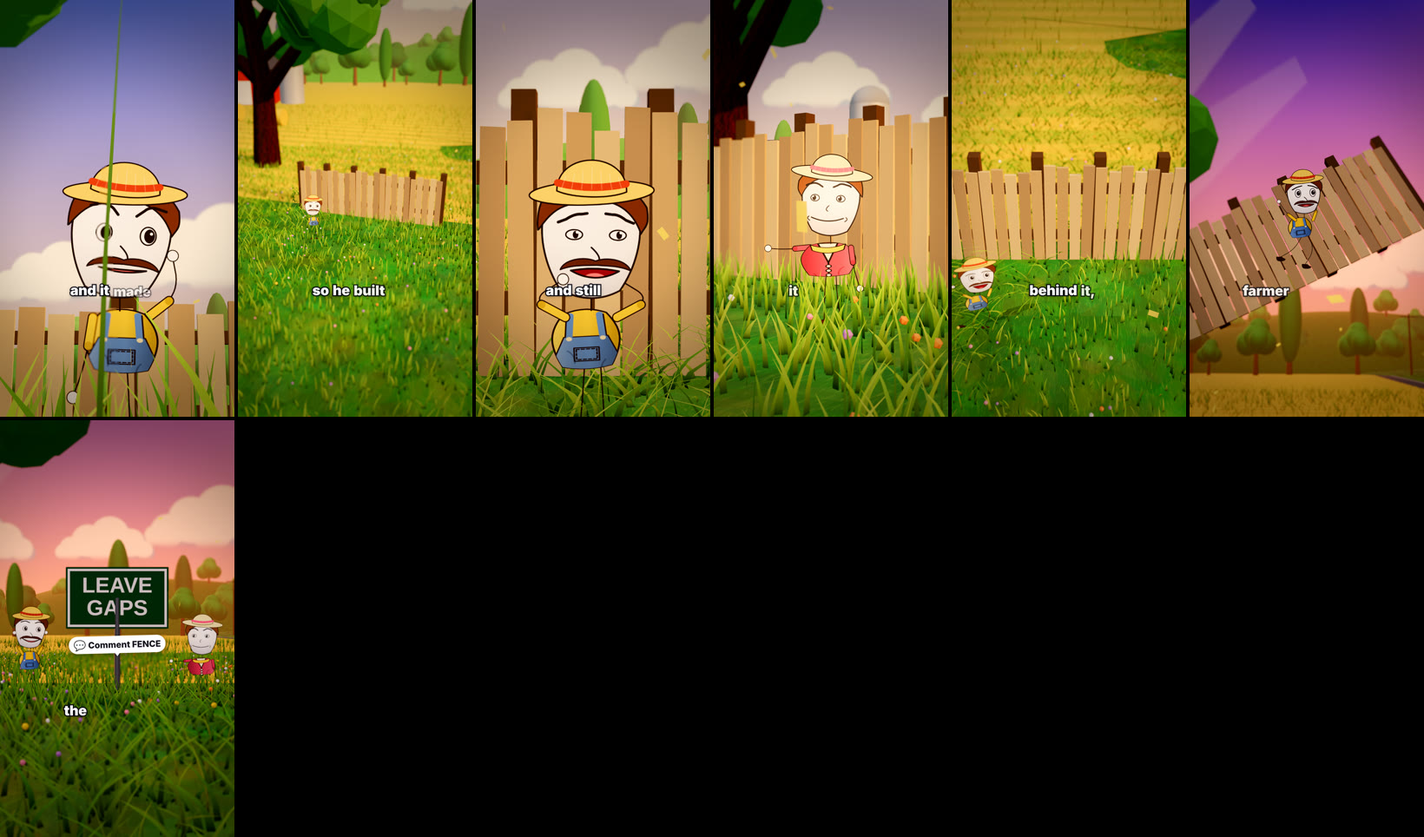
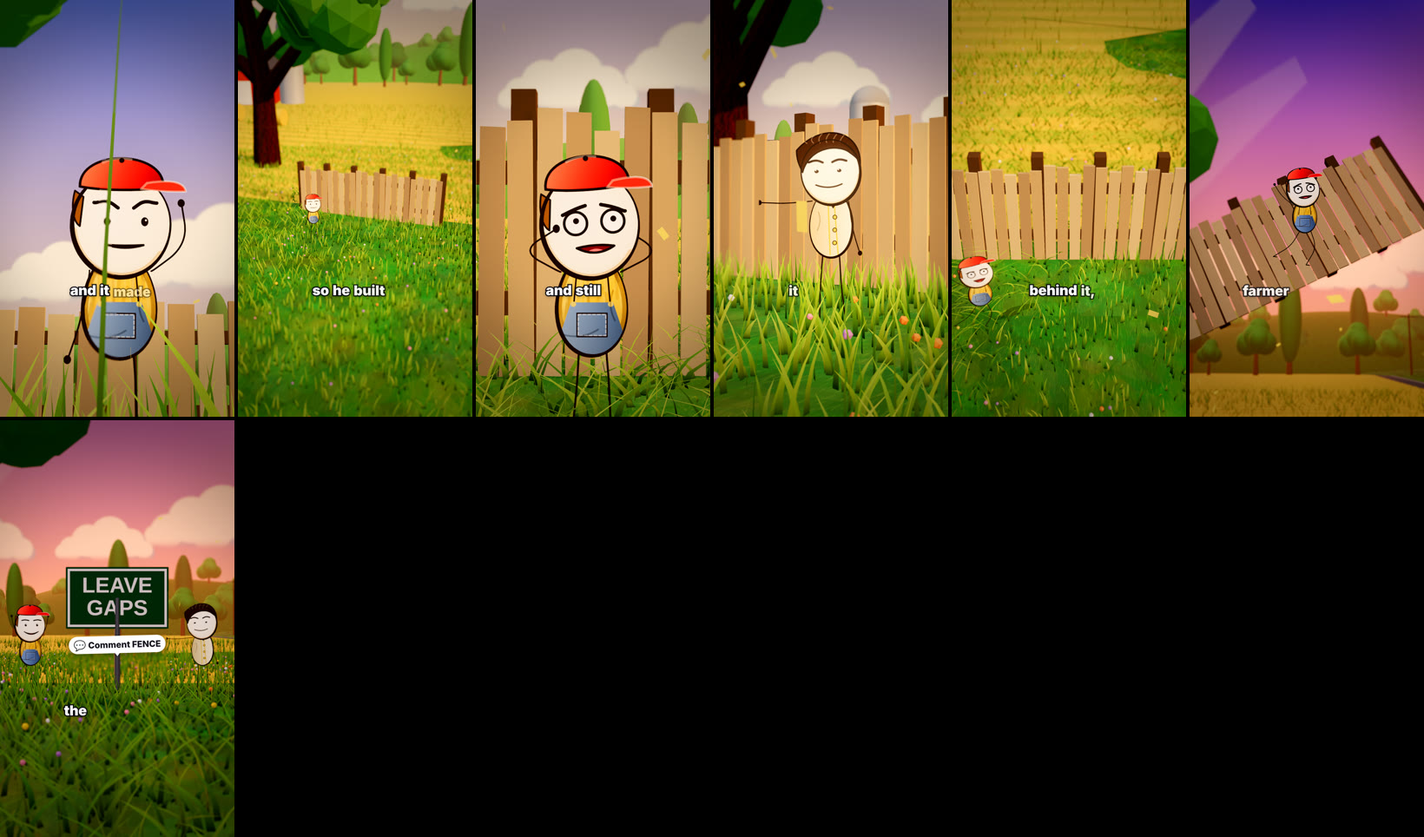
Style 2 characters rebuilt to match the reference characters: bean body without neck, round head, variable-weight ink loops, painted cloth with brush streaks and inner shading, squint/teeth faces, thin limbs, tight hats; reference cast (red-cap kid, pompadour, teal kid, site worker)

diff --git a/reel-studio/remotion-template/src/three/stickdraw.js b/reel-studio/remotion-template/src/three/stickdraw.js
@@ -2,7 +2,7 @@
 // Joint-driven: shoulders, elbows, hips, knees, torso lean, head tilt, a 3/4 turn, brows, blinking eyes, a continuous mouth, squash and stretch,
 // and the slightly boiling line of hand-drawn animation (the line re-wobbles at 12 fps). Pure function of its arguments.
 //   drawStick(ctx, W, H, s)  s = { t, pose: {...joints}, look:{...costume}, expr:{brow, tilt, smile, open, eyes, look:[x,y]}, turn, walk, seed }
-const R = Math.PI / 180, INK = '#241a15';
+const R = Math.PI / 180, INK = '#1f1511';
 export const POSES = {
   idle:   { sL: [8, 10], sR: [8, 10], hL: [4, 4], hR: [4, 4], lean: 0, tilt: 0 },
   point:  { sL: [8, 10], sR: [84, 8], hL: [4, 4], hR: [4, 4], lean: 4, tilt: 3 },
@@ -13,6 +13,7 @@ export const POSES = {
   hammer: { sL: [8, 10], sR: [128, 60], hL: [4, 4], hR: [4, 4], lean: 2, tilt: 0 },
   flail:  { sL: [130, 20], sR: [160, 30], hL: [30, 30], hR: [18, 50], lean: -12, tilt: -8 },
   hold:   { sL: [60, 60], sR: [60, 60], hL: [4, 4], hR: [4, 4], lean: 2, tilt: 0 },
+  hip:    { sL: [58, 112], sR: [10, 14], hL: [6, 8], hR: [8, 8], lean: -3, tilt: -5, hip: 4 },
   lean:   { sL: [24, 40], sR: [62, 80], hL: [10, 16], hR: [-14, 80], lean: 12, tilt: -9, hip: 14 },
   stomp:  { sL: [40, 30], sR: [30, 20], hL: [-12, 70], hR: [14, 6], lean: -6, tilt: 6, hip: -8 },
   sneak:  { sL: [10, 60], sR: [30, 70], hL: [-8, 56], hR: [18, 20], lean: 14, tilt: 10, hip: 10 },
@@ -30,86 +31,69 @@ export function blendPose(a, b, k) { const o = {}; for (const key of Object.keys
 export function blendExpr(a, b, k) { const o = {}; for (const key of Object.keys(a)) o[key] = mix(a[key], b[key], k); return o; }
 
 export function drawStick(ctx, W, H, s) {
-  const { t = 0, pose = POSES.idle, look = {}, expr = EXPR.neutral, turn = 0, walk = 0, seed = 1 } = s, u = H / 1420, B = { headS: 1.6, torsoW: 1.5, torsoH: 170, legL: 420, hand: 20, shoe: 1.0, armL: 1.05, ...(look.body || {}) }, fr = Math.floor(t * 12), ink = look.ink || '#241a15', LK = look.lineK ?? 0.62;
+  const { t = 0, pose = POSES.idle, look = {}, expr = EXPR.neutral, turn = 0, walk = 0, seed = 1 } = s, u = H / 1200, fr = Math.floor(t * 12), ink = look.ink || INK, S0 = seed * 17.13;
   ctx.clearRect(0, 0, W, H); ctx.save(); ctx.translate(W / 2, H * 0.985); ctx.scale(u, u); ctx.lineCap = 'round'; ctx.lineJoin = 'round';
-  const wb = (i, a = 1.8) => wob(seed + fr * 0.37, i, a);
-  const bob = Math.sin(t * 2.2 + seed) * 3 + Math.abs(Math.sin(walk * Math.PI)) * -14 * (walk ? 1 : 0), lean = pose.lean * R + walk * 0.05;
-  // pen: every outline is inked twice, a firm line and a thinner offset one, so the weight swells and thins like a drawn line
-  const pen = (w, col = ink) => { w *= LK; ctx.strokeStyle = col; ctx.lineWidth = w; ctx.stroke(); ctx.save(); ctx.translate(1.6 + wb(31, 0.6), -1.2 + wb(32, 0.6)); ctx.globalAlpha = 0.5; ctx.lineWidth = w * 0.55; ctx.stroke(); ctx.restore(); };
-  const stroke = (w, col = ink) => { ctx.strokeStyle = col; ctx.lineWidth = w; };
-  const line = (pts, w, col = ink) => { ctx.beginPath(); ctx.moveTo(pts[0][0] + wb(1), pts[0][1] + wb(2)); for (let i = 1; i < pts.length; i++) { const p = pts[i], q = pts[i - 1]; ctx.quadraticCurveTo(q[0] + wb(i * 3), q[1] + wb(i * 5), (p[0] + q[0]) / 2 + wb(i * 7), (p[1] + q[1]) / 2 + wb(i * 11)); } ctx.lineTo(pts[pts.length - 1][0] + wb(13), pts[pts.length - 1][1] + wb(17)); pen(w, col); };
-  const hipY = -B.legL + bob, shY = hipY - B.torsoH, shX = Math.sin(lean) * 110, hdY = shY - 52 - 146 * B.headS + bob * 0.3;
-  const limb = (ox, oy, a1, a2, l1, l2, w, sd = 1) => { const e = [ox + sd * Math.sin(a1) * l1, oy + Math.cos(a1) * l1], h = [e[0] + sd * Math.sin(a1 + a2) * l2, e[1] + Math.cos(a1 + a2) * l2]; line([[ox, oy], e, h], w); return { e, h }; };
+  const rn = (i) => { const x = Math.sin((i + S0) * 127.1 + 311.7) * 43758.5453; return x - Math.floor(x); }, wb = (i, a = 1.6) => (rn(i * 7.3 + fr * 0.37) - 0.5) * 2 * a;
+  const bob = Math.sin(t * 2.2 + seed) * 3 + Math.abs(Math.sin(walk * Math.PI)) * -12 * (walk ? 1 : 0), lean = pose.lean * R + walk * 0.05, hp = pose.hip || 0;
+  const HEADRX = 162 * (look.headW ?? 1), HEADRY = 180 * (look.headH ?? 1), TH = look.torsoH ?? 285, LEG = look.legL ?? 390, TWs = look.torsoW ?? 1.5;
+  const hipY = -LEG + bob, shY = hipY - TH, shX = Math.sin(lean) * 120, hdY = shY - HEADRY + 70 + bob * 0.3;
+  // ---- ink loop: a closed shape outlined by a pen whose weight swells and thins around it (heavy on the shadow side, light on the lit side)
+  const loop = (fn, n, base, lightAng = -0.9) => { const out = [], inn = []; for (let i = 0; i < n; i++) { const a = (i / n) * Math.PI * 2, p = fn(a), q = fn(a + 0.01), tx = q[0] - p[0], ty = q[1] - p[1], l = Math.hypot(tx, ty) || 1, nx = ty / l, ny = -tx / l, th = base * (0.5 + 0.95 * Math.pow(0.5 + 0.5 * Math.cos(a - lightAng - Math.PI), 1.4)) + wb(i * 3, 0.5); out.push([p[0] + nx * th * 0.5, p[1] + ny * th * 0.5]); inn.push([p[0] - nx * th * 0.5, p[1] - ny * th * 0.5]); }
+    ctx.beginPath(); out.forEach((p, i) => (i ? ctx.lineTo(p[0], p[1]) : ctx.moveTo(p[0], p[1]))); ctx.closePath(); inn.reverse().forEach((p, i) => (i ? ctx.lineTo(p[0], p[1]) : ctx.moveTo(p[0], p[1]))); ctx.closePath(); ctx.fillStyle = ink; ctx.fill('evenodd'); };
+  const line = (pts, w, col = ink) => { ctx.beginPath(); ctx.moveTo(pts[0][0] + wb(1), pts[0][1] + wb(2)); for (let i = 1; i < pts.length; i++) { const p = pts[i], q = pts[i - 1]; ctx.quadraticCurveTo(q[0] + wb(i * 3), q[1] + wb(i * 5), (p[0] + q[0]) / 2 + wb(i * 7), (p[1] + q[1]) / 2 + wb(i * 11)); } ctx.lineTo(pts[pts.length - 1][0] + wb(13), pts[pts.length - 1][1] + wb(17)); ctx.strokeStyle = col; ctx.lineWidth = w; ctx.stroke(); };
+  // painted fill: base colour, soft light-to-shade gradient, brush streaks, dark inner edge (like gouache / coloured pencil)
+  const paint = (fn, col, o = {}) => { const { x0 = -120, x1 = 120, y0 = -100, y1 = 100, streak = 0.1, inner = 0.3 } = o; ctx.save(); ctx.beginPath(); for (let i = 0; i <= 48; i++) { const p = fn((i / 48) * Math.PI * 2); i ? ctx.lineTo(p[0], p[1]) : ctx.moveTo(p[0], p[1]); } ctx.closePath(); ctx.fillStyle = col; ctx.fill(); ctx.clip();
+    const g = ctx.createLinearGradient(x0, y0, x1, y1); g.addColorStop(0, 'rgba(255,255,255,0.28)'); g.addColorStop(0.5, 'rgba(255,255,255,0)'); g.addColorStop(1, 'rgba(0,0,0,0.34)'); ctx.fillStyle = g; ctx.fillRect(x0 - 200, y0 - 200, x1 - x0 + 400, y1 - y0 + 400);
+    ctx.lineCap = 'round'; for (let i = 0; i < 46; i++) { ctx.strokeStyle = i % 2 ? `rgba(255,255,255,${streak})` : `rgba(0,0,0,${streak})`; ctx.lineWidth = 5 + rn(i * 3) * 11; const x = x0 + rn(i * 5) * (x1 - x0), y = y0 + rn(i * 9) * (y1 - y0); ctx.beginPath(); ctx.moveTo(x, y); ctx.lineTo(x + (rn(i) - 0.5) * 30, y + 40 + rn(i * 7) * 90); ctx.stroke(); }
+    ctx.beginPath(); for (let i = 0; i <= 48; i++) { const p = fn((i / 48) * Math.PI * 2); i ? ctx.lineTo(p[0], p[1]) : ctx.moveTo(p[0], p[1]); } ctx.closePath(); ctx.strokeStyle = `rgba(30,12,0,${inner})`; ctx.lineWidth = 34; ctx.stroke(); ctx.restore(); };
+  // ---- legs: thin long lines with a clear knee, tiny shoe strokes
   const dirx = turn >= 0 ? 1 : -1, sw = walk ? Math.sin(walk * Math.PI * 2) : 0, sp = Math.abs(turn) > 0.5 ? 0.5 : 0.12;
   const thL = -pose.hL[0] * R - sw * sp * dirx, thR = pose.hR[0] * R + sw * sp * dirx, kL = (pose.hL[1] + Math.max(0, sw) * 40) * R, kR = (pose.hR[1] + Math.max(0, -sw) * 40) * R;
-  const lg = (hx, th, kb) => { const l1 = B.legL * 0.49, l2 = B.legL * 0.51, e = [hx + Math.sin(th) * l1, hipY + Math.cos(th) * l1], h = [e[0] + Math.sin(th - kb * dirx) * l2, e[1] + Math.cos(th - kb * dirx) * l2]; if (look.pants) { ctx.lineCap = 'round'; ctx.beginPath(); ctx.moveTo(hx, hipY); ctx.lineTo(e[0], e[1]); ctx.lineTo(h[0], h[1]); ctx.strokeStyle = ink; ctx.lineWidth = look.baggy ? 52 : 36; ctx.stroke(); ctx.strokeStyle = look.pants; ctx.lineWidth = look.baggy ? 42 : 27; ctx.stroke(); } else line([[hx, hipY], e, h], 9); return h; };
-  const boot = (p, ang) => { ctx.save(); ctx.translate(p[0], p[1] + 6); ctx.rotate(ang); ctx.scale(B.shoe, B.shoe); ctx.fillStyle = look.boots || '#33261b'; ctx.beginPath(); ctx.moveTo(-26, -18); ctx.quadraticCurveTo(-30, 26, 8 * dirx, 26); ctx.quadraticCurveTo(64 * dirx, 28, 66 * dirx, 6); ctx.quadraticCurveTo(40 * dirx, -4, 26, -18); ctx.closePath(); ctx.fill(); pen(6); ctx.restore(); };
-  const hp = (pose.hip || 0), fL = lg(-30 + shX * 0.3 + hp, thL, kL), fR = lg(30 + shX * 0.3 + hp, thR, kR); boot(fL, 0); boot(fR, 0.04);
-  const hand = (p, ang = 0) => { ctx.fillStyle = look.glove || '#fbf8f2'; ctx.beginPath(); ctx.arc(p[0], p[1], B.hand, 0, 7); ctx.fill(); pen(6); ctx.beginPath(); ctx.arc(p[0] + B.hand * 0.22, p[1] - B.hand * 0.22, B.hand * 0.26, 0, 7); ctx.fillStyle = '#fff'; ctx.fill(); };
-  const sleeve = look.sleeve || look.shirt, armOf = (side, a, front) => {
-    const ox = shX + side * 70 * B.torsoW, oy = shY + 22, L1 = 138 * B.armL, L2 = 134 * B.armL, e1 = [ox + side * Math.sin(a[0] * R) * L1, oy + Math.cos(a[0] * R) * L1], r = limb(ox, oy, a[0] * R, a[1] * R, L1, L2, 9, side);
-    if (sleeve) { ctx.lineCap = 'round'; const sl = (to, w) => { ctx.beginPath(); ctx.moveTo(ox, oy); ctx.lineTo(to[0], to[1]); ctx.strokeStyle = ink; ctx.lineWidth = w + 9; ctx.stroke(); ctx.strokeStyle = sleeve; ctx.lineWidth = w; ctx.stroke(); }; const mid = [ox + (e1[0] - ox) * 0.7, oy + (e1[1] - oy) * 0.7]; sl(mid, 30); ctx.beginPath(); ctx.moveTo(mid[0], mid[1]); ctx.lineTo(mid[0] + (e1[0] - ox) * 0.08, mid[1] + (e1[1] - oy) * 0.08); ctx.strokeStyle = '#00000030'; ctx.lineWidth = 32; ctx.stroke(); }
-    hand(r.h); return r.h; };
-  armOf(1, pose.sR, false);
-  if (look.backpack) { ctx.fillStyle = look.backpack; ctx.save(); ctx.translate(shX * 0.5, 0); ctx.beginPath(); ctx.roundRect(-92 * B.torsoW, shY + 20, 184 * B.torsoW, B.torsoH * 0.9, 34); ctx.fill(); pen(6); ctx.restore(); }
-  // torso: a soft bean (shoulders narrower than the belly) with clothes drawn on it
-  const tw = 78, sh = look.shirt || '#d9a13a', gx = ctx.createLinearGradient(-tw, 0, tw, 0); gx.addColorStop(0, '#ffffff22'); gx.addColorStop(0.55, '#00000000'); gx.addColorStop(1, '#00000040');
-  ctx.save(); ctx.translate(shX * 0.5 + (pose.hip || 0) * 0.5, 0); ctx.rotate(lean * 0.6); ctx.scale(B.torsoW, 1);
-  const bean = () => { ctx.beginPath(); ctx.moveTo(-58 + wb(3), shY + 6); ctx.bezierCurveTo(-98, shY + 70, -104, hipY - 70, -68 + wb(4), hipY + 22); ctx.quadraticCurveTo(0, hipY + 44, 68 + wb(5), hipY + 22); ctx.bezierCurveTo(104, hipY - 70, 98, shY + 70, 58 + wb(6), shY + 6); ctx.quadraticCurveTo(0, shY - 26, -58, shY + 6); ctx.closePath(); };
-  bean(); ctx.fillStyle = sh; ctx.fill(); ctx.fillStyle = gx; ctx.fill(); pen(8.5);
-  ctx.save(); bean(); ctx.clip();
-  if (look.overalls) { ctx.fillStyle = look.overalls; ctx.beginPath(); ctx.moveTo(-60, shY + 96); ctx.lineTo(60, shY + 96); ctx.lineTo(110, hipY + 50); ctx.lineTo(-110, hipY + 50); ctx.closePath(); ctx.fill(); ctx.fillStyle = gx; ctx.fill(); pen(6); [-1, 1].forEach((sd) => { ctx.beginPath(); ctx.moveTo(sd * 46, shY + 96); ctx.lineTo(sd * 40, shY + 12); ctx.strokeStyle = look.overalls; ctx.lineWidth = 20; ctx.stroke(); ctx.strokeStyle = ink; ctx.lineWidth = 4; ctx.beginPath(); ctx.moveTo(sd * 56, shY + 96); ctx.lineTo(sd * 50, shY + 12); ctx.stroke(); }); ctx.fillStyle = '#e8d4a0'; [-46, 46].forEach((x) => { ctx.beginPath(); ctx.arc(x, shY + 104, 8, 0, 7); ctx.fill(); }); ctx.strokeStyle = ink; ctx.lineWidth = 4; ctx.strokeRect(-34, shY + 140, 68, 52); ctx.setLineDash([8, 6]); ctx.strokeRect(-28, shY + 146, 56, 40); ctx.setLineDash([]); }
-  if (look.jacket) { ctx.fillStyle = look.jacket; ctx.fillRect(-120, shY - 20, 240, 400); ctx.fillStyle = gx; ctx.fillRect(-120, shY - 20, 240, 400); ctx.strokeStyle = ink; ctx.lineWidth = 6; ctx.beginPath(); ctx.moveTo(0, shY + 20); ctx.lineTo(0, hipY + 60); ctx.stroke(); ctx.fillStyle = look.collar || '#ffffff30'; ctx.beginPath(); ctx.moveTo(-40, shY + 2); ctx.lineTo(0, shY + 60); ctx.lineTo(40, shY + 2); ctx.closePath(); ctx.fill(); pen(5); [-1, 1].forEach((sd) => { ctx.strokeRect(sd * 60 - 26, hipY - 40, 52, 30); }); }
-  if (look.cardigan) { ctx.fillStyle = look.cardigan; ctx.fillRect(-120, shY - 20, 240, 400); ctx.fillStyle = gx; ctx.fillRect(-120, shY - 20, 240, 400); ctx.fillStyle = look.shirt; ctx.beginPath(); ctx.moveTo(-34, shY - 6); ctx.lineTo(0, shY + 120); ctx.lineTo(34, shY - 6); ctx.closePath(); ctx.fill(); ctx.strokeStyle = ink; ctx.lineWidth = 6; ctx.stroke(); ctx.beginPath(); ctx.moveTo(0, shY + 120); ctx.lineTo(0, hipY + 60); ctx.stroke(); ctx.fillStyle = '#f4e9d0'; [0.2, 0.45, 0.7].forEach((k) => { ctx.beginPath(); ctx.arc(0, shY + 120 + (hipY - shY - 60) * k, 9, 0, 7); ctx.fill(); ctx.lineWidth = 4; ctx.stroke(); }); }
-  if (look.apron) { ctx.fillStyle = look.apron; ctx.beginPath(); ctx.moveTo(-50, shY + 70); ctx.lineTo(50, shY + 70); ctx.lineTo(70, hipY + 40); ctx.lineTo(-70, hipY + 40); ctx.closePath(); ctx.fill(); pen(5); }
-  ctx.strokeStyle = '#00000038'; ctx.lineWidth = 5; ctx.beginPath(); ctx.moveTo(-52, shY + 150); ctx.quadraticCurveTo(-30, shY + 170, -34, shY + 200); ctx.moveTo(50, shY + 190); ctx.quadraticCurveTo(34, shY + 210, 40, shY + 240); ctx.stroke();
+  const lg = (hx, th, kb) => { const l1 = LEG * 0.5, l2 = LEG * 0.5, e = [hx + Math.sin(th) * l1, hipY + Math.cos(th) * l1], h = [e[0] + Math.sin(th - kb * dirx) * l2, e[1] + Math.cos(th - kb * dirx) * l2]; line([[hx, hipY], e, h], 7, ink); line([h, [h[0] + 34 * dirx, h[1] + 4]], 8, ink); return h; };
+  lg(-44 + shX * 0.3 + hp, thL, kL); lg(44 + shX * 0.3 + hp, thR, kR);
+  // ---- arms: thin ink lines, tiny closed fist
+  const armOf = (side, a) => { const L1 = 150 * (look.armL ?? 1), L2 = 140 * (look.armL ?? 1), ox = shX + side * 70 * TWs * 0.95, oy = shY + 50, e = [ox + side * Math.sin(a[0] * R) * L1, oy + Math.cos(a[0] * R) * L1], h = [e[0] + side * Math.sin((a[0] + a[1]) * R) * L2, e[1] + Math.cos((a[0] + a[1]) * R) * L2]; line([[ox, oy], e, h], 6, ink); ctx.fillStyle = look.glove || ink; ctx.beginPath(); ctx.ellipse(h[0], h[1], 12, 14, 0, 0, 7); ctx.fill(); return h; };
+  const backArm = pose.sR; armOf(1, backArm);
+  // ---- torso: a bean (no neck; the head sits on it), painted clothes on top
+  const bean = (a) => { const c = Math.cos(a), sn = Math.sin(a), cx = shX * 0.5 + hp * 0.5, cy = (shY + hipY) / 2 + 10, rx = 78 * TWs * (1 + 0.1 * sn), ry = TH / 2 + 28; return [cx + c * rx, cy + sn * ry + (sn > 0 ? 0 : 0)]; };
+  const tc = look.shirt || '#E8B33A'; paint(bean, tc, { x0: -110, x1: 110, y0: shY, y1: hipY });
+  ctx.save(); ctx.beginPath(); for (let i = 0; i <= 48; i++) { const p = bean((i / 48) * Math.PI * 2); i ? ctx.lineTo(p[0], p[1]) : ctx.moveTo(p[0], p[1]); } ctx.closePath(); ctx.clip();
+  const bx = shX * 0.5 + hp * 0.5;
+  if (look.overalls) { ctx.fillStyle = look.overalls; ctx.beginPath(); ctx.moveTo(bx - 70, shY + 150); ctx.lineTo(bx + 70, shY + 150); ctx.lineTo(bx + 130, hipY + 40); ctx.lineTo(bx - 130, hipY + 40); ctx.closePath(); ctx.fill(); const g = ctx.createLinearGradient(bx - 120, 0, bx + 120, 0); g.addColorStop(0, 'rgba(255,255,255,0.25)'); g.addColorStop(1, 'rgba(0,0,0,0.35)'); ctx.fillStyle = g; ctx.fill(); ctx.strokeStyle = ink; ctx.lineWidth = 5; [-1, 1].forEach((sd) => { ctx.beginPath(); ctx.moveTo(bx + sd * 60, shY + 150); ctx.lineTo(bx + sd * 50, shY + 40); ctx.stroke(); }); ctx.fillStyle = '#d9c070'; [-1, 1].forEach((sd) => { ctx.beginPath(); ctx.arc(bx + sd * 62, shY + 156, 9, 0, 7); ctx.fill(); }); ctx.setLineDash([9, 7]); ctx.strokeStyle = '#e8f0ff90'; ctx.lineWidth = 4; ctx.strokeRect(bx - 46, shY + 190, 92, 70); ctx.setLineDash([]); ctx.strokeStyle = ink; ctx.lineWidth = 4; ctx.strokeRect(bx - 50, shY + 186, 100, 78); ctx.strokeStyle = '#00000045'; ctx.lineWidth = 6; ctx.beginPath(); ctx.moveTo(bx - 120, hipY - 40); ctx.quadraticCurveTo(bx - 40, hipY - 10, bx + 20, hipY - 50); ctx.stroke(); }
+  if (look.vest) { ctx.fillStyle = look.vest; ctx.fillRect(bx - 140, shY - 20, 280, 480); const g = ctx.createLinearGradient(bx - 120, 0, bx + 120, 0); g.addColorStop(0, 'rgba(255,255,255,0.3)'); g.addColorStop(1, 'rgba(120,90,30,0.35)'); ctx.fillStyle = g; ctx.fillRect(bx - 140, shY - 20, 280, 480); ctx.strokeStyle = look.trim || '#d9b84a'; ctx.lineWidth = 7; ctx.beginPath(); ctx.moveTo(bx - 14, shY + 40); ctx.lineTo(bx - 40, hipY + 20); ctx.moveTo(bx + 18, shY + 40); ctx.lineTo(bx + 4, hipY + 20); ctx.stroke(); ctx.fillStyle = look.trim || '#d9b84a'; [0.3, 0.52, 0.74].forEach((k) => { ctx.beginPath(); ctx.arc(bx - 20, shY + 40 + (hipY - shY) * k, 11, 0, 7); ctx.fill(); ctx.strokeStyle = ink; ctx.lineWidth = 3; ctx.stroke(); }); ctx.fillStyle = '#2a2018'; ctx.beginPath(); ctx.moveTo(bx - 60, shY + 10); ctx.lineTo(bx - 10, shY + 90); ctx.lineTo(bx + 40, shY + 10); ctx.closePath(); ctx.fill(); }
+  if (look.patch) { ctx.fillStyle = look.patch; ctx.beginPath(); ctx.roundRect(bx - 38, hipY - 70, 76, 80, 12); ctx.fill(); ctx.strokeStyle = ink; ctx.lineWidth = 4; ctx.stroke(); }
+  if (look.vis) { ctx.fillStyle = look.vis; ctx.fillRect(bx - 140, shY + 20, 280, 400); ctx.fillStyle = '#e8e8e0'; ctx.fillRect(bx - 140, shY + 150, 280, 26); ctx.fillRect(bx - 140, shY + 250, 280, 26); ctx.strokeStyle = ink; ctx.lineWidth = 5; ctx.beginPath(); ctx.moveTo(bx, shY + 20); ctx.lineTo(bx, hipY + 40); ctx.stroke(); }
+  ctx.strokeStyle = '#00000040'; ctx.lineWidth = 6; ctx.beginPath(); ctx.moveTo(bx + 70, shY + 110); ctx.quadraticCurveTo(bx + 50, shY + 160, bx + 76, shY + 210); ctx.stroke();
+  ctx.restore(); loop(bean, 72, 9.5, -0.7);
+  // ---- head: a round, slightly tall oval; cream with a warm shaded rim; ink loop with a heavy shadow side
+  ctx.save(); ctx.translate(shX * 1.1, hdY); ctx.rotate((pose.tilt + (look.headTilt || 0) + (expr.tilt2 || 0)) * R); const fx = turn * 56;
+  const headF = (a) => [Math.cos(a) * HEADRX, Math.sin(a) * HEADRY * (Math.sin(a) > 0 ? 1 : 0.98)];
+  ctx.save(); ctx.beginPath(); for (let i = 0; i <= 56; i++) { const p = headF((i / 56) * Math.PI * 2); i ? ctx.lineTo(p[0], p[1]) : ctx.moveTo(p[0], p[1]); } ctx.closePath(); ctx.fillStyle = look.skin || '#fdf6e6'; ctx.fill(); ctx.clip();
+  const hg = ctx.createRadialGradient(-HEADRX * 0.3, -HEADRY * 0.35, 20, 0, 0, HEADRY * 1.15); hg.addColorStop(0, 'rgba(255,255,255,0.7)'); hg.addColorStop(0.65, 'rgba(255,255,255,0)'); hg.addColorStop(1, 'rgba(150,100,40,0.34)'); ctx.fillStyle = hg; ctx.fillRect(-300, -300, 600, 600);
+  ctx.strokeStyle = 'rgba(190,120,50,0.38)'; ctx.lineWidth = 30; ctx.beginPath(); ctx.ellipse(0, 0, HEADRX, HEADRY, 0, Math.PI * 0.2, Math.PI * 0.95); ctx.stroke(); ctx.restore();
+  // hair behind the hat line
+  if (look.hair === 'pomp') { ctx.fillStyle = look.hairColor || '#3a2616'; ctx.beginPath(); ctx.moveTo(-HEADRX * 1.0, -20); ctx.bezierCurveTo(-HEADRX * 1.15, -HEADRY * 1.25, HEADRX * 0.2 + fx * 0.3, -HEADRY * 1.55, HEADRX * 1.12, -HEADRY * 0.7); ctx.bezierCurveTo(HEADRX * 1.14, -HEADRY * 0.35, HEADRX * 1.0, -30, HEADRX * 0.95, -4); ctx.bezierCurveTo(HEADRX * 0.7, -HEADRY * 0.75, -HEADRX * 0.2, -HEADRY * 0.85, -HEADRX * 0.62, -HEADRY * 0.6); ctx.bezierCurveTo(-HEADRX * 0.9, -HEADRY * 0.4, -HEADRX, -60, -HEADRX * 1.0, -20); ctx.fill(); ctx.strokeStyle = ink; ctx.lineWidth = 8; ctx.stroke(); ctx.strokeStyle = '#ffffff40'; ctx.lineWidth = 6; for (let k = 0; k < 6; k++) { ctx.beginPath(); ctx.moveTo(-HEADRX * 0.5 + k * 40, -HEADRY * 1.18 + Math.abs(k - 2.5) * 6); ctx.quadraticCurveTo(-HEADRX * 0.4 + k * 44, -HEADRY * 1.02, -HEADRX * 0.35 + k * 36, -HEADRY * 0.9); ctx.stroke(); } }
+  if (look.hair === 'side') { ctx.fillStyle = look.hairColor || '#6a3d1c'; [-1].forEach((sd) => { ctx.beginPath(); ctx.moveTo(sd * HEADRX * 0.96, -HEADRY * 0.62); ctx.bezierCurveTo(sd * HEADRX * 1.04, -HEADRY * 0.3, sd * HEADRX * 0.98, -HEADRY * 0.02, sd * HEADRX * 0.84, HEADRY * 0.06); ctx.lineTo(sd * HEADRX * 0.78, -HEADRY * 0.5); ctx.closePath(); ctx.fill(); ctx.strokeStyle = ink; ctx.lineWidth = 6; ctx.stroke(); }); }
+  // eyes: bold ink squints for laughing, tiny dark eyes by default, big white eyes with small pupils for fright
+  const ex = [-62 + fx, 62 + fx], ey = -6, open = expr.eyes ?? 1, scare = expr.eyes > 1.1, lk = s.gaze || [0, 0], blink = (() => { const c = (t + seed * 0.7) % 4.1; return c < 0.13 ? Math.sin((c / 0.13) * Math.PI) : 0; })();
+  ex.forEach((x, k) => { const side = k ? 1 : -1;
+    if (open < 0.15) { line([[x - side * 30, ey - 26], [x + side * 20, ey + 2], [x - side * 30, ey + 28]], 13, ink); }
+    else if (scare) { ctx.fillStyle = '#fff'; ctx.beginPath(); ctx.arc(x, ey, 38, 0, 7); ctx.fill(); ctx.strokeStyle = ink; ctx.lineWidth = 9; ctx.stroke(); ctx.fillStyle = ink; ctx.beginPath(); ctx.arc(x + lk[0] * 10, ey - 8 + lk[1] * 8, 10, 0, 7); ctx.fill(); }
+    else { const ry = Math.max(3, 17 * open * (1 - blink * 0.95)); ctx.fillStyle = ink; ctx.beginPath(); ctx.ellipse(x + lk[0] * 6, ey + lk[1] * 4, 12, ry, 0, 0, 7); ctx.fill(); ctx.fillStyle = '#fff'; ctx.beginPath(); ctx.arc(x + lk[0] * 6 + 4, ey - 5, 3.4, 0, 7); ctx.fill(); }
+    if (open >= 0.15) { const by = ey - 56 - expr.brow * 22; line([[x + side * 42, by + expr.tilt * 10 + (expr.tilt < 0 ? 6 : 0)], [x, by - 8 - Math.abs(expr.tilt) * 3], [x - side * 36, by - expr.tilt * 22]], 12, ink); } });
+  // mouth: wide grin, dark inside, a row of teeth, a pink tongue
+  const mx = fx * 0.9, my = 74, sm = expr.smile, op = Math.max(0, Math.min(1, expr.open + (s.talk || 0) * 0.7)), mw = 58 + Math.abs(sm) * 22;
+  ctx.beginPath(); ctx.moveTo(mx - mw, my - sm * 10); ctx.quadraticCurveTo(mx, my + sm * 40 - op * 4, mx + mw, my - sm * 10);
+  if (op > 0.1) { ctx.quadraticCurveTo(mx, my + sm * 34 + op * 92, mx - mw, my - sm * 10); ctx.closePath(); ctx.fillStyle = '#6e1822'; ctx.fill(); ctx.save(); ctx.clip(); if (sm > 0.2) { ctx.fillStyle = '#fff'; ctx.fillRect(mx - mw, my - sm * 11, mw * 2, 22 + op * 12); ctx.strokeStyle = ink; ctx.lineWidth = 3; for (let q = -3; q <= 3; q++) { ctx.beginPath(); ctx.moveTo(mx + q * 17, my - sm * 11); ctx.lineTo(mx + q * 17, my - sm * 11 + 30); ctx.stroke(); } } ctx.fillStyle = '#e8737a'; ctx.beginPath(); ctx.ellipse(mx, my + op * 60, mw * 0.55, 22, 0, 0, 7); ctx.fill(); ctx.restore(); ctx.beginPath(); ctx.moveTo(mx - mw, my - sm * 10); ctx.quadraticCurveTo(mx, my + sm * 40 - op * 4, mx + mw, my - sm * 10); ctx.quadraticCurveTo(mx, my + sm * 34 + op * 92, mx - mw, my - sm * 10); }
+  ctx.strokeStyle = ink; ctx.lineWidth = 8; ctx.stroke();
+  // head outline last so it is crisp
+  loop(headF, 84, 12, -0.8);
+  // hats sit on top, smaller than the head
+  const hat = look.hat, hc = look.hatColor || '#D8342B';
+  if (hat === 'cap') { const g = ctx.createLinearGradient(-120, -HEADRY * 1.1, 120, -HEADRY * 0.5); g.addColorStop(0, '#ff6a58'); g.addColorStop(0.5, hc); g.addColorStop(1, '#8a1810'); ctx.beginPath(); ctx.moveTo(-HEADRX * 0.86, -HEADRY * 0.7); ctx.bezierCurveTo(-HEADRX * 0.9, -HEADRY * 1.45, HEADRX * 0.9, -HEADRY * 1.45, HEADRX * 0.86, -HEADRY * 0.7); ctx.bezierCurveTo(HEADRX * 0.4, -HEADRY * 0.62, -HEADRX * 0.4, -HEADRY * 0.62, -HEADRX * 0.86, -HEADRY * 0.7); ctx.fillStyle = g; ctx.fill(); ctx.strokeStyle = ink; ctx.lineWidth = 9; ctx.stroke(); ctx.strokeStyle = '#ffffff55'; ctx.lineWidth = 8; ctx.beginPath(); ctx.moveTo(-HEADRX * 0.4, -HEADRY * 1.18); ctx.quadraticCurveTo(-HEADRX * 0.1, -HEADRY * 1.3, HEADRX * 0.2, -HEADRY * 1.24); ctx.stroke(); ctx.fillStyle = hc; ctx.beginPath(); ctx.moveTo(HEADRX * 0.5 + fx * 0.3, -HEADRY * 0.78); ctx.quadraticCurveTo(HEADRX * 1.25 + fx * 0.3, -HEADRY * 0.9, HEADRX * 1.3 + fx * 0.3, -HEADRY * 0.62); ctx.quadraticCurveTo(HEADRX * 0.9, -HEADRY * 0.6, HEADRX * 0.4, -HEADRY * 0.66); ctx.closePath(); ctx.fill(); ctx.stroke(); ctx.beginPath(); ctx.arc(0, -HEADRY * 1.22, 9, 0, 7); ctx.fillStyle = ink; ctx.fill(); }
+  if (hat === 'trucker') { ctx.beginPath(); ctx.moveTo(-HEADRX * 0.9, -HEADRY * 0.66); ctx.bezierCurveTo(-HEADRX * 0.95, -HEADRY * 1.42, HEADRX * 0.95, -HEADRY * 1.42, HEADRX * 0.9, -HEADRY * 0.66); ctx.closePath(); ctx.fillStyle = '#f2f0ea'; ctx.fill(); ctx.strokeStyle = ink; ctx.lineWidth = 9; ctx.stroke(); ctx.fillStyle = hc; ctx.beginPath(); ctx.moveTo(-HEADRX * 0.9, -HEADRY * 0.66); ctx.bezierCurveTo(-HEADRX * 0.95, -HEADRY * 1.1, -HEADRX * 0.1, -HEADRY * 1.2, -HEADRX * 0.05, -HEADRY * 0.66); ctx.closePath(); ctx.fill(); ctx.stroke(); ctx.fillStyle = '#f2f0ea'; ctx.beginPath(); ctx.moveTo(-HEADRX * 0.7 + fx * 0.3, -HEADRY * 0.7); ctx.quadraticCurveTo(-HEADRX * 1.3, -HEADRY * 0.74, -HEADRX * 1.3, -HEADRY * 0.5); ctx.quadraticCurveTo(-HEADRX * 0.9, -HEADRY * 0.52, -HEADRX * 0.55, -HEADRY * 0.6); ctx.closePath(); ctx.fill(); ctx.stroke(); }
+  if (hat === 'hard') { const g = ctx.createLinearGradient(0, -HEADRY * 1.4, 0, -HEADRY * 0.6); g.addColorStop(0, '#ffffff'); g.addColorStop(1, '#cfd3d8'); ctx.beginPath(); ctx.moveTo(-HEADRX * 0.95, -HEADRY * 0.66); ctx.bezierCurveTo(-HEADRX * 1.0, -HEADRY * 1.5, HEADRX * 1.0, -HEADRY * 1.5, HEADRX * 0.95, -HEADRY * 0.66); ctx.closePath(); ctx.fillStyle = g; ctx.fill(); ctx.strokeStyle = ink; ctx.lineWidth = 9; ctx.stroke(); ctx.beginPath(); ctx.ellipse(0, -HEADRY * 0.66, HEADRX * 1.2, 20, 0, 0, 7); ctx.fillStyle = '#e4e7ea'; ctx.fill(); ctx.stroke(); ctx.beginPath(); ctx.moveTo(-18, -HEADRY * 1.46); ctx.lineTo(-18, -HEADRY * 0.7); ctx.moveTo(18, -HEADRY * 1.46); ctx.lineTo(18, -HEADRY * 0.7); ctx.lineWidth = 6; ctx.stroke(); }
   ctx.restore();
-  if (look.tie) { ctx.fillStyle = look.tie; ctx.beginPath(); ctx.moveTo(-14, shY + 26); ctx.lineTo(14, shY + 26); ctx.lineTo(22, shY + 150); ctx.lineTo(0, shY + 176); ctx.lineTo(-22, shY + 150); ctx.closePath(); ctx.fill(); pen(5); }
-  if (look.coat) { ctx.fillStyle = look.coat; ctx.beginPath(); ctx.moveTo(-76, shY + 4); ctx.bezierCurveTo(-112, shY + 120, -118, hipY - 20, -104, hipY + 150); ctx.lineTo(104, hipY + 150); ctx.bezierCurveTo(118, hipY - 20, 112, shY + 120, 76, shY + 4); ctx.lineTo(24, shY + 6); ctx.lineTo(0, shY + 70); ctx.lineTo(-24, shY + 6); ctx.closePath(); ctx.fill(); ctx.fillStyle = gx; ctx.fill(); pen(8); ctx.fillStyle = look.coat; [-1, 1].forEach((sd) => { ctx.beginPath(); ctx.moveTo(sd * 20, shY + 4); ctx.lineTo(sd * 66, shY + 40); ctx.lineTo(sd * 30, shY + 100); ctx.closePath(); ctx.fill(); pen(6); }); ctx.strokeStyle = '#00000050'; ctx.lineWidth = 12; ctx.beginPath(); ctx.moveTo(-108, hipY - 30); ctx.lineTo(108, hipY - 30); ctx.stroke(); ctx.fillStyle = '#d9b74a'; ctx.fillRect(-14, hipY - 44, 28, 28); ctx.fillStyle = look.tie || ink; [0, 1, 2].forEach((q) => { ctx.beginPath(); ctx.arc(0, shY + 90 + q * 60, 7, 0, 7); ctx.fill(); }); }
-  if (look.neckerchief) { ctx.fillStyle = look.neckerchief; ctx.beginPath(); ctx.moveTo(-64, shY + 4); ctx.lineTo(64, shY + 4); ctx.lineTo(0, shY + 110); ctx.closePath(); ctx.fill(); pen(6); }
-  if (look.scarf) { ctx.fillStyle = look.scarf; ctx.beginPath(); ctx.moveTo(-60, shY + 2); ctx.quadraticCurveTo(0, shY + 44, 60, shY + 2); ctx.lineTo(54, shY + 38); ctx.quadraticCurveTo(0, shY + 78, -54, shY + 38); ctx.closePath(); ctx.fill(); pen(6); }
-  ctx.restore();
-  // neck, head (egg: broad at the cheeks, a softer chin), face, hair, hat
-  ctx.save(); ctx.translate(shX * 0.9, 0); line([[0, shY - 4], [wb(9), hdY + 108 * B.headS]], 10); ctx.restore();
-  ctx.save(); ctx.translate(shX * 1.1, hdY); ctx.rotate((pose.tilt + (look.headTilt || 0) + (expr.tilt2 || 0)) * R); ctx.scale(B.headS, B.headS); const hw = 132 * (1 - Math.abs(turn) * 0.08), hh = 146, fx = turn * 48;
-  const headPath = () => { ctx.beginPath(); ctx.moveTo(0, -hh); ctx.bezierCurveTo(hw * 1.04, -hh, hw * 1.12, hh * 0.1, hw * 0.55, hh * 0.86); ctx.quadraticCurveTo(fx * 0.3, hh * 1.12, -hw * 0.55, hh * 0.86); ctx.bezierCurveTo(-hw * 1.12, hh * 0.1, -hw * 1.04, -hh, 0, -hh); ctx.closePath(); };
-  headPath(); const hg = ctx.createRadialGradient(-hw * 0.35 + turn * 20, -hh * 0.4, 10, 0, 0, hh * 1.15); hg.addColorStop(0, '#ffffff'); hg.addColorStop(0.65, '#f6f2ec'); hg.addColorStop(1, '#ddd6cb'); ctx.fillStyle = hg; ctx.fill(); pen(7.5);
-  ctx.save(); headPath(); ctx.clip(); const sg = ctx.createLinearGradient(0, hh * 0.1, 0, hh * 1.1); sg.addColorStop(0, 'rgba(110,120,160,0)'); sg.addColorStop(1, 'rgba(110,120,160,0.26)'); ctx.fillStyle = sg; ctx.fillRect(-hw * 1.3, hh * 0.1, hw * 2.6, hh); ctx.restore();
-  if (look.ears) { ctx.fillStyle = '#f1ece4'; [-1, 1].forEach((sd) => { ctx.beginPath(); ctx.ellipse(sd * (hw * 1.04) + fx * 0.3, 14, 17, 28, 0, 0, 7); ctx.fill(); pen(6); }); }
-  if (look.hair) { ctx.fillStyle = look.hair; ctx.beginPath(); ctx.moveTo(-hw * 0.98, -16); ctx.bezierCurveTo(-hw * 1.1, -hh * 1.22, hw * 0.4 + fx * 0.3, -hh * 1.34, hw * 1.02, -hh * 0.5); ctx.bezierCurveTo(hw * 1.08, -hh * 0.2, hw, -30, hw * 0.92, -10); ctx.bezierCurveTo(hw * 0.7, -hh * 0.62, 10 + fx * 0.4, -hh * 0.72, -hw * 0.5, -hh * 0.5); ctx.bezierCurveTo(-hw * 0.8, -hh * 0.4, -hw * 0.95, -hh * 0.1, -hw * 0.98, -16); ctx.fill(); pen(6.5); ctx.beginPath(); ctx.moveTo(-hw * 0.3, -hh * 0.98); ctx.quadraticCurveTo(-hw * 0.05, -hh * 1.12, hw * 0.3, -hh * 1.0); ctx.strokeStyle = '#ffffff40'; ctx.lineWidth = 9; ctx.stroke(); }
-  const ep = { l: [-52 + fx, -6], r: [52 + fx, -6] }, open = Math.max(0, Math.min(1.3, expr.eyes ?? 1)), blink = (() => { const c = (t + seed * 0.7) % 4.1; return c < 0.13 ? Math.sin((c / 0.13) * Math.PI) : 0; })(), eo = open * (1 - blink * 0.95);
-  for (const [k, side] of [['l', -1], ['r', 1]]) {
-    const [ex, ey] = ep[k], rx = 19 * (1 + (open - 1) * 0.2), ry = Math.max(2.5, 24 * eo);
-    if (open < 0.12) { ctx.beginPath(); ctx.moveTo(ex - side * 26, ey - 18); ctx.lineTo(ex + side * 22, ey + 4); ctx.lineTo(ex - side * 26, ey + 26); pen(8); }   // squeezed ">" eye of a big laugh
-    else { ctx.fillStyle = '#fff'; ctx.beginPath(); ctx.ellipse(ex, ey, rx, ry, 0, 0, 7); ctx.fill(); pen(5.5);
-      const lk = s.gaze || [0, 0], px = ex + lk[0] * 9 + turn * 6, py = ey + lk[1] * 7; ctx.fillStyle = ink; ctx.beginPath(); ctx.ellipse(px, py, 13 * Math.min(1, ry / 22), Math.min(17, ry * 0.78), 0, 0, 7); ctx.fill(); ctx.fillStyle = '#fff'; ctx.beginPath(); ctx.arc(px + 4, py - 6, 3.6, 0, 7); ctx.fill(); }
-    const by = ey - 54 - expr.brow * 24, outer = [ex + side * 38, by + expr.tilt * 8 + (expr.tilt < 0 ? 4 : 0)], inner = [ex - side * 30, by - expr.tilt * 20], mid = [ex, by - 12 - Math.abs(expr.tilt) * 2]; line([outer, mid, inner], 11);
-  }
-  const nz = look.nose ?? 0.45; ctx.beginPath(); ctx.moveTo(fx - 7 * nz, 24); ctx.quadraticCurveTo(fx + 16 * nz, 24 + 20 * nz, fx - 2 * nz, 24 + 28 * nz); pen(5 + nz);
-  if (look.stache) { ctx.fillStyle = look.stache; ctx.beginPath(); ctx.moveTo(fx, 56); ctx.bezierCurveTo(fx - 30, 44, fx - 76, 54, fx - 84, 78); ctx.bezierCurveTo(fx - 56, 66, fx - 30, 68, fx, 66); ctx.bezierCurveTo(fx + 30, 68, fx + 56, 66, fx + 84, 78); ctx.bezierCurveTo(fx + 76, 54, fx + 30, 44, fx, 56); ctx.fill(); pen(5); }
-  if (look.freckles) { ctx.fillStyle = look.freckles; [[-74, 40], [-58, 52], [-86, 58], [70, 40], [56, 54], [86, 58]].forEach(([x, y]) => { ctx.beginPath(); ctx.arc(x + fx, y, 4, 0, 7); ctx.fill(); }); }
-  const mx = fx * 0.9, my = 78, sm = expr.smile, op = Math.max(0, Math.min(1, expr.open + (s.talk || 0) * 0.7)), mw = 54 + Math.abs(sm) * 18;
-  ctx.beginPath(); ctx.moveTo(mx - mw, my - sm * 8); ctx.quadraticCurveTo(mx, my + sm * 36 - op * 4, mx + mw, my - sm * 8);
-  if (op > 0.12) { ctx.quadraticCurveTo(mx, my + sm * 30 + op * 80, mx - mw, my - sm * 8); ctx.closePath(); ctx.fillStyle = '#7a1f26'; ctx.fill(); ctx.save(); ctx.clip(); if (sm > 0.2) { ctx.fillStyle = '#fff'; ctx.fillRect(mx - mw, my - sm * 9, mw * 2, 16 + op * 8); ctx.strokeStyle = ink; ctx.lineWidth = 3; for (let q = -2; q <= 2; q++) { ctx.beginPath(); ctx.moveTo(mx + q * 18, my - sm * 9); ctx.lineTo(mx + q * 18, my - sm * 9 + 20); ctx.stroke(); } } ctx.fillStyle = '#e8737a'; ctx.beginPath(); ctx.ellipse(mx, my + op * 54, mw * 0.55, 20, 0, 0, 7); ctx.fill(); ctx.restore(); ctx.beginPath(); ctx.moveTo(mx - mw, my - sm * 8); ctx.quadraticCurveTo(mx, my + sm * 36 - op * 4, mx + mw, my - sm * 8); ctx.quadraticCurveTo(mx, my + sm * 30 + op * 80, mx - mw, my - sm * 8); }
-  pen(7);
-  if (sm > 0.4) { [-1, 1].forEach((sd) => { ctx.beginPath(); ctx.moveTo(mx + sd * (mw + 10), my - sm * 14); ctx.quadraticCurveTo(mx + sd * (mw + 22), my - sm * 2, mx + sd * (mw + 6), my + 8); pen(5); }); }
-  if (look.blush) { ctx.fillStyle = 'rgba(238,120,110,0.3)'; [-1, 1].forEach((sd) => { ctx.beginPath(); ctx.ellipse(sd * 92 + fx, 52, 24, 14, 0, 0, 7); ctx.fill(); }); }
-  if (look.glasses) { ctx.fillStyle = 'rgba(170,190,205,0.45)'; [-1, 1].forEach((sd) => { ctx.beginPath(); ctx.roundRect(sd * 52 + fx - 38, -48, 76, 80, 22); ctx.fill(); pen(6.5); }); ctx.beginPath(); ctx.moveTo(fx - 14, -16); ctx.quadraticCurveTo(fx, -26, fx + 14, -16); pen(6); }
-  if (look.bun) { ctx.fillStyle = look.bun; ctx.beginPath(); ctx.arc(hw * 0.35, -hh * 1.12, 44, 0, 7); ctx.fill(); pen(6); }
-  if (look.goggles) { [-1, 1].forEach((sd) => { ctx.fillStyle = 'rgba(150,210,240,0.55)'; ctx.beginPath(); ctx.arc(sd * 54 + fx * 0.5, -96, 34, 0, 7); ctx.fill(); pen(7); ctx.fillStyle = '#ffffff90'; ctx.beginPath(); ctx.arc(sd * 54 + fx * 0.5 - 10, -108, 8, 0, 7); ctx.fill(); }); ctx.strokeStyle = '#5a4630'; ctx.lineWidth = 12; ctx.beginPath(); ctx.moveTo(-hw, -96); ctx.lineTo(hw, -96); ctx.stroke(); }
-  if (look.headphones) { ctx.strokeStyle = look.headphones; ctx.lineWidth = 20; ctx.beginPath(); ctx.arc(0, -10, hw * 1.04, Math.PI * 1.05, Math.PI * 1.95); ctx.stroke(); [-1, 1].forEach((sd) => { ctx.fillStyle = look.headphones; ctx.beginPath(); ctx.ellipse(sd * hw * 1.04, 8, 30, 46, 0, 0, 7); ctx.fill(); pen(6); }); }
-  const hat = look.hat, hc = look.hatColor || '#E3C06A', hs = look.hatS ?? 0.8; ctx.save(); ctx.translate(0, -60); ctx.scale(hs, hs); ctx.translate(0, 60);
-  if (hat === 'hard') { ctx.fillStyle = hc; ctx.beginPath(); ctx.moveTo(-hw * 1.02, -70); ctx.bezierCurveTo(-hw * 1.1, -250, hw * 1.1, -250, hw * 1.02, -70); ctx.closePath(); ctx.fill(); pen(7.5); ctx.fillStyle = hc; ctx.beginPath(); ctx.ellipse(0, -70, hw * 1.28, 26, 0, 0, 7); ctx.fill(); pen(7); ctx.fillStyle = '#ffffff40'; ctx.beginPath(); ctx.ellipse(-40, -170, 40, 18, -0.5, 0, 7); ctx.fill(); ctx.fillStyle = '#fff3a0'; ctx.beginPath(); ctx.arc(0, -150, 24, 0, 7); ctx.fill(); pen(5); ctx.beginPath(); ctx.moveTo(-14, -250); ctx.lineTo(-14, -70); ctx.moveTo(14, -250); ctx.lineTo(14, -70); ctx.strokeStyle = '#00000030'; ctx.lineWidth = 6; ctx.stroke(); }
-  if (hat === 'fedora') { ctx.fillStyle = hc; ctx.beginPath(); ctx.ellipse(0, -96, hw * 1.45, 34, -0.05, 0, 7); ctx.fill(); pen(7); ctx.beginPath(); ctx.moveTo(-hw * 0.84, -100); ctx.bezierCurveTo(-hw * 0.9, -240, hw * 0.9, -240, hw * 0.84, -100); ctx.bezierCurveTo(hw * 0.4, -80, -hw * 0.4, -80, -hw * 0.84, -100); ctx.fill(); pen(7); ctx.strokeStyle = '#1b1b1b'; ctx.lineWidth = 22; ctx.beginPath(); ctx.moveTo(-hw * 0.84, -126); ctx.quadraticCurveTo(0, -100, hw * 0.84, -126); ctx.stroke(); ctx.beginPath(); ctx.moveTo(-30, -226); ctx.quadraticCurveTo(0, -196, 30, -226); ctx.strokeStyle = '#00000050'; ctx.lineWidth = 8; ctx.stroke(); }
-  if (hat === 'chef') { ctx.fillStyle = '#fbfbf8'; [[-62, -190, 58], [0, -230, 70], [62, -190, 58]].forEach(([x, y, r]) => { ctx.beginPath(); ctx.arc(x, y, r, 0, 7); ctx.fill(); pen(7); }); ctx.beginPath(); ctx.roundRect(-hw * 0.86, -190, hw * 1.72, 120, 18); ctx.fill(); pen(7); ctx.strokeStyle = '#00000020'; ctx.lineWidth = 6; [-30, 30].forEach((x) => { ctx.beginPath(); ctx.moveTo(x, -180); ctx.lineTo(x, -80); ctx.stroke(); }); }
-  if (hat === 'beanie') { ctx.fillStyle = hc; ctx.beginPath(); ctx.moveTo(-hw * 1.02, -60); ctx.bezierCurveTo(-hw * 1.1, -230, hw * 1.1, -230, hw * 1.02, -60); ctx.closePath(); ctx.fill(); pen(7.5); ctx.fillStyle = look.cuff || '#f4f0e6'; ctx.beginPath(); ctx.roundRect(-hw * 1.06, -96, hw * 2.12, 54, 20); ctx.fill(); pen(7); ctx.fillStyle = look.cuff || '#f4f0e6'; ctx.beginPath(); ctx.arc(0, -206, 30, 0, 7); ctx.fill(); pen(6); }
-  if (hat === 'scout') { ctx.fillStyle = hc; ctx.beginPath(); ctx.ellipse(0, -100, hw * 1.55, 30, 0, 0, 7); ctx.fill(); pen(7); ctx.beginPath(); ctx.moveTo(-hw * 0.72, -104); ctx.lineTo(-hw * 0.64, -220); ctx.quadraticCurveTo(0, -196, hw * 0.64, -220); ctx.lineTo(hw * 0.72, -104); ctx.quadraticCurveTo(0, -80, -hw * 0.72, -104); ctx.fill(); pen(7); ctx.strokeStyle = look.band || '#7a3b2e'; ctx.lineWidth = 16; ctx.beginPath(); ctx.moveTo(-hw * 0.7, -126); ctx.quadraticCurveTo(0, -104, hw * 0.7, -126); ctx.stroke(); }
-  if (hat === 'top') { ctx.fillStyle = hc; ctx.beginPath(); ctx.ellipse(0, -110, hw * 1.2, 26, 0, 0, 7); ctx.fill(); pen(7); ctx.beginPath(); ctx.roundRect(-hw * 0.72, -300, hw * 1.44, 200, 12); ctx.fill(); pen(7); ctx.fillStyle = look.band || '#E8B93A'; ctx.fillRect(-hw * 0.72, -164, hw * 1.44, 36); }
-  if (hat === 'straw' || hat === 'sun') { ctx.fillStyle = hc; ctx.beginPath(); ctx.ellipse(0, -118, hat === 'sun' ? 206 : 186, 36, -0.06, 0, 7); ctx.fill(); pen(7); ctx.beginPath(); ctx.moveTo(-104, -122); ctx.bezierCurveTo(-104, -246, 104, -246, 104, -122); ctx.bezierCurveTo(54, -100, -54, -100, -104, -122); ctx.fill(); pen(7); ctx.strokeStyle = look.band || '#B04A2E'; ctx.lineWidth = 22; ctx.beginPath(); ctx.moveTo(-102, -146); ctx.quadraticCurveTo(0, -122, 102, -146); ctx.stroke(); ctx.strokeStyle = '#ffffff30'; ctx.lineWidth = 3; for (let q = -3; q <= 3; q++) { ctx.beginPath(); ctx.moveTo(q * 26, -190 + Math.abs(q) * 8); ctx.lineTo(q * 30, -128); ctx.stroke(); } }
-  if (hat === 'cap') { ctx.fillStyle = hc; ctx.beginPath(); ctx.moveTo(-128, -70); ctx.bezierCurveTo(-130, -214, 128, -214, 128, -70); ctx.closePath(); ctx.fill(); pen(7.5); ctx.fillStyle = '#ffffff2a'; ctx.beginPath(); ctx.ellipse(-40, -150, 48, 22, -0.4, 0, 7); ctx.fill(); ctx.fillStyle = hc; ctx.beginPath(); ctx.moveTo(26 + fx, -82); ctx.quadraticCurveTo(168 + fx, -96, 200 + fx, -54); ctx.quadraticCurveTo(110 + fx, -48, 20 + fx, -62); ctx.closePath(); ctx.fill(); pen(7); ctx.beginPath(); ctx.arc(0, -186, 9, 0, 7); ctx.fillStyle = ink; ctx.fill(); }
-  ctx.restore();
-  if (look.helmet) { ctx.fillStyle = 'rgba(190,225,255,0.22)'; ctx.beginPath(); ctx.arc(0, 4, hw * 1.32, 0, 7); ctx.fill(); ctx.strokeStyle = look.helmet; ctx.lineWidth = 16; ctx.stroke(); ctx.strokeStyle = '#ffffff90'; ctx.lineWidth = 12; ctx.beginPath(); ctx.arc(0, 4, hw * 1.18, Math.PI * 1.1, Math.PI * 1.45); ctx.stroke(); ctx.fillStyle = look.helmet; ctx.beginPath(); ctx.roundRect(-hw * 1.1, hh * 0.9, hw * 2.2, 46, 22); ctx.fill(); pen(6); }
-  ctx.restore();
-  armOf(-1, pose.sL, true);
+  armOf(-1, pose.sL);
   ctx.restore();
 }

diff --git a/reel-studio/remotion-template/src/three/cast_designs.js b/reel-studio/remotion-template/src/three/cast_designs.js
@@ -1,9 +1,9 @@
 // Ten character designs for the stickman styles (numbered for the user's choice). `canvas` = look for stickdraw.js (style 2: 2D in 3D), `svg` = look for stickman_svg.js (style 3: flat cinematic).
 export const DESIGNS = [
-  { n: 1, svg: { hat: 'straw', hatColor: '#E3C06A', shirt: '#E6B93A', bib: '#5A7FB0', pants: '#5A7FB0', hair: 'short', hairColor: '#6A3D1C', bodyW: 0.9, headS: 1.3, rim: '#ffd9a0' }, id: 'barnaby', name: 'Barnaby, the lanky farmer', canvas: { hat: 'straw', hatColor: '#E3C06A', band: '#B04A2E', shirt: '#E6B93A', sleeve: '#E6B93A', overalls: '#5A7FB0', hair: '#6A3D1C', boots: '#3a2a1c', stache: '#5a3418', nose: 1.5, headTilt: 5, body: { headS: 1.65, torsoW: 1.45, torsoH: 190, legL: 400, hand: 22, shoe: 1.1, armL: 1.1 } } },
-  { n: 2, svg: { hat: 'sun', hatColor: '#F2E3B0', shirt: '#C9556B', scarf: '#F2C14E', pants: '#3a2a3a', hair: 'short', hairColor: '#8A5A3A', bodyW: 1.5, headS: 1.25, rim: '#ffd9a0' }, id: 'mabel', name: 'Mabel, the round neighbour', canvas: { hat: 'sun', hatColor: '#F2E3B0', band: '#E86F8A', cardigan: '#C9556B', shirt: '#F4E3C4', sleeve: '#C9556B', scarf: '#F2C14E', hair: '#8A5A3A', boots: '#4a2a2a', nose: 0.8, headTilt: -5, body: { headS: 1.6, torsoW: 1.9, torsoH: 175, legL: 330, hand: 22, shoe: 1.1, armL: 1.0 } } },
-  { n: 3, svg: { hat: 'capback', hatColor: '#D8342B', shirt: '#2F9A8D', pants: '#3b4150', bodyW: 1.1, headS: 1.4, rim: '#6f8cff' }, id: 'rex', name: 'Rex, the squat kid', canvas: { hat: 'cap', hatColor: '#D8342B', jacket: '#2F9A8D', shirt: '#2F9A8D', sleeve: '#2F9A8D', hair: '#6A3D1C', boots: '#222', freckles: '#b5663a', nose: 1.2, headTilt: 8, body: { headS: 1.85, torsoW: 1.45, torsoH: 160, legL: 330, hand: 22, shoe: 1.1, armL: 1.05 } } },
-  { n: 4, svg: { hat: 'hard', hatColor: '#F2B31A', goggles: true, shirt: '#d8d8d4', bib: '#E8782A', pants: '#E8782A', bodyW: 1.3, headS: 1.25, rim: '#ffd9a0' }, id: 'gus', name: 'Gus, the mechanic', canvas: { hat: 'hard', hatColor: '#F2B31A', goggles: true, overalls: '#E8782A', shirt: '#d8d8d4', sleeve: '#d8d8d4', glove: '#f4c430', boots: '#222', lineK: 1.35, stache: '#2a1d14', nose: 1.3, body: { headS: 1.35, torsoW: 1.3, torsoH: 210, legL: 330, hand: 22, shoe: 1.1, armL: 1.0 } } },
+  { n: 1, svg: { hat: 'straw', hatColor: '#E3C06A', shirt: '#E6B93A', bib: '#5A7FB0', pants: '#5A7FB0', hair: 'short', hairColor: '#6A3D1C', bodyW: 0.9, headS: 1.3, rim: '#ffd9a0' }, id: 'barnaby', name: 'Red-cap kid', canvas: { hat: 'cap', hatColor: '#D8342B', shirt: '#E8B33A', overalls: '#5F86B8', hair: 'side', hairColor: '#8a5a2a', torsoH: 290 } },
+  { n: 2, svg: { hat: 'sun', hatColor: '#F2E3B0', shirt: '#C9556B', scarf: '#F2C14E', pants: '#3a2a3a', hair: 'short', hairColor: '#8A5A3A', bodyW: 1.5, headS: 1.25, rim: '#ffd9a0' }, id: 'mabel', name: 'Pompadour', canvas: { hair: 'pomp', hairColor: '#3a2616', vest: '#F6EBC8', trim: '#d9b84a', shirt: '#E8D9A0', torsoH: 320, headW: 1.0 } },
+  { n: 3, svg: { hat: 'capback', hatColor: '#D8342B', shirt: '#2F9A8D', pants: '#3b4150', bodyW: 1.1, headS: 1.4, rim: '#6f8cff' }, id: 'rex', name: 'Teal kid', canvas: { hat: 'trucker', hatColor: '#C8372D', hair: 'side', hairColor: '#7a4a24', shirt: '#2BA39A', patch: '#D8452F', headW: 0.95, torsoH: 280 } },
+  { n: 4, svg: { hat: 'hard', hatColor: '#F2B31A', goggles: true, shirt: '#d8d8d4', bib: '#E8782A', pants: '#E8782A', bodyW: 1.3, headS: 1.25, rim: '#ffd9a0' }, id: 'gus', name: 'Site worker', canvas: { hat: 'hard', vis: '#C6D84A', shirt: '#C6D84A', hair: 'side', hairColor: '#6a4a2a', torsoH: 300 } },
   { n: 5, svg: { hat: 'fedora', hatColor: '#4a4036', coat: '#b99a6b', tie: '#7a1f26', shirt: '#eeeeea', pants: '#2a2a30', bodyW: 0.95, headS: 1.15, rim: '#6f8cff' }, id: 'nox', name: 'Nox, the detective', canvas: { hat: 'fedora', hatColor: '#4a4036', coat: '#b99a6b', tie: '#7a1f26', shirt: '#eeeeea', sleeve: '#b99a6b', ink: '#1a1a22', boots: '#1d1d22', nose: 1.9, headTilt: -4, body: { headS: 1.2, torsoW: 0.95, torsoH: 280, legL: 520, hand: 22, shoe: 1.1, armL: 1.3 } } },
   { n: 6, svg: { hat: 'scout', hatColor: '#8a6a3a', neckerchief: '#d8342b', backpack: '#6a4a2a', shirt: '#9bbf6a', pants: '#6a5a3a', bodyW: 1.0, headS: 1.3, rim: '#ffd9a0' }, id: 'pip', name: 'Pip, the scout', canvas: { hat: 'scout', hatColor: '#8a6a3a', band: '#c24a2a', neckerchief: '#d8342b', shirt: '#9bbf6a', sleeve: '#9bbf6a', backpack: '#6a4a2a', hair: '#c9863a', freckles: '#b5663a', boots: '#4a3320', body: { headS: 1.5, torsoW: 1.0, torsoH: 170, legL: 280, hand: 22, shoe: 1.1, armL: 1.05 } } },
   { n: 7, svg: { hat: 'chef', apron: '#bcd7ee', shirt: '#f6f6f2', pants: '#3a3a40', bodyW: 1.7, headS: 1.2, rim: '#ffe9a0' }, id: 'beppo', name: 'Beppo, the chef', canvas: { hat: 'chef', apron: '#bcd7ee', shirt: '#f6f6f2', sleeve: '#f6f6f2', stache: '#3a2a1a', nose: 1.3, boots: '#2a2a2a', body: { headS: 1.3, torsoW: 1.75, torsoH: 200, legL: 300, hand: 22, shoe: 1.1, armL: 1.0 } } },

diff --git a/reel-studio/remotion-template/src/three/sprite.js b/reel-studio/remotion-template/src/three/sprite.js
@@ -7,7 +7,7 @@ import { drawStick, POSES, EXPR, blendPose, blendExpr } from './stickdraw.js';
 import { DESIGNS } from './cast_designs.js';
 
 const ease = (t) => { t = Math.max(0, Math.min(1, t)); return t * t * (3 - 2 * t); };
-export const COSTUMES = { ...Object.fromEntries(DESIGNS.map((d) => [d.id, d.canvas])), otto: DESIGNS[0].canvas };
+export const COSTUMES = { ...Object.fromEntries(DESIGNS.map((d) => [d.id, d.canvas])), otto: DESIGNS[0].canvas, mabel: DESIGNS[1].canvas, rex: DESIGNS[2].canvas };
 const keys = (spec, d) => (Array.isArray(spec) ? spec : [[0, spec || d]]);
 /** smooth value between keyframed names: blends the previous and the next name over `ramp` seconds before a key */
 function sample(spec, lt, table, blend, d, ramp = 0.28) {
